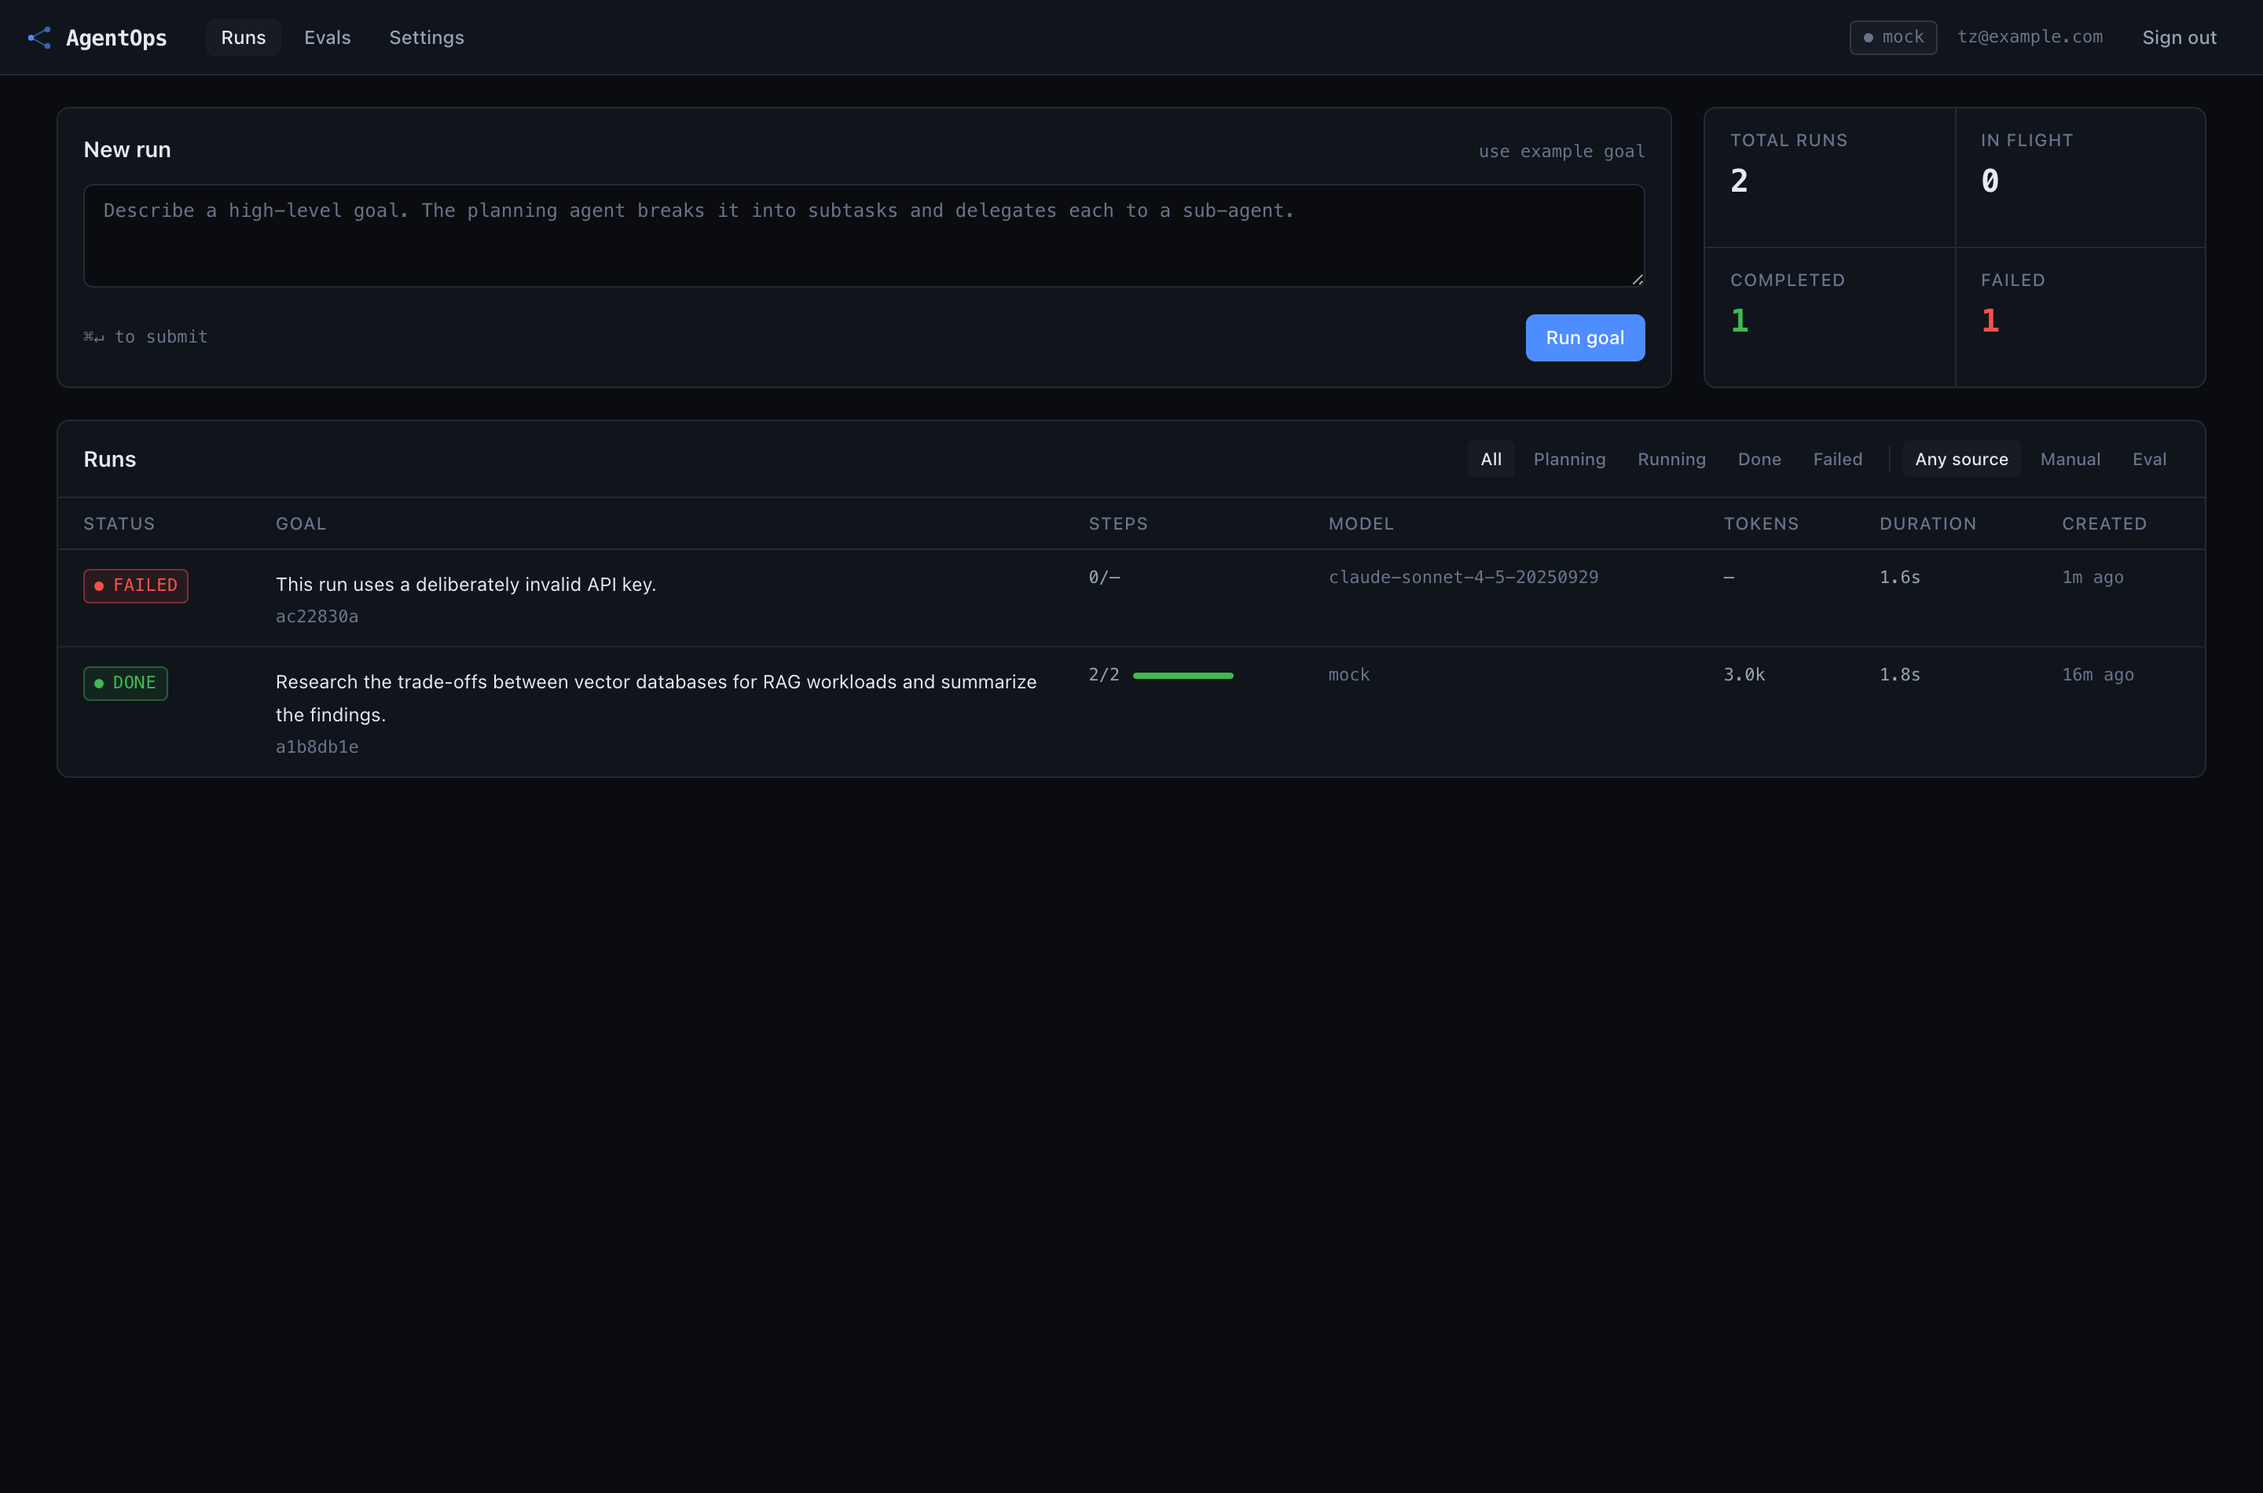
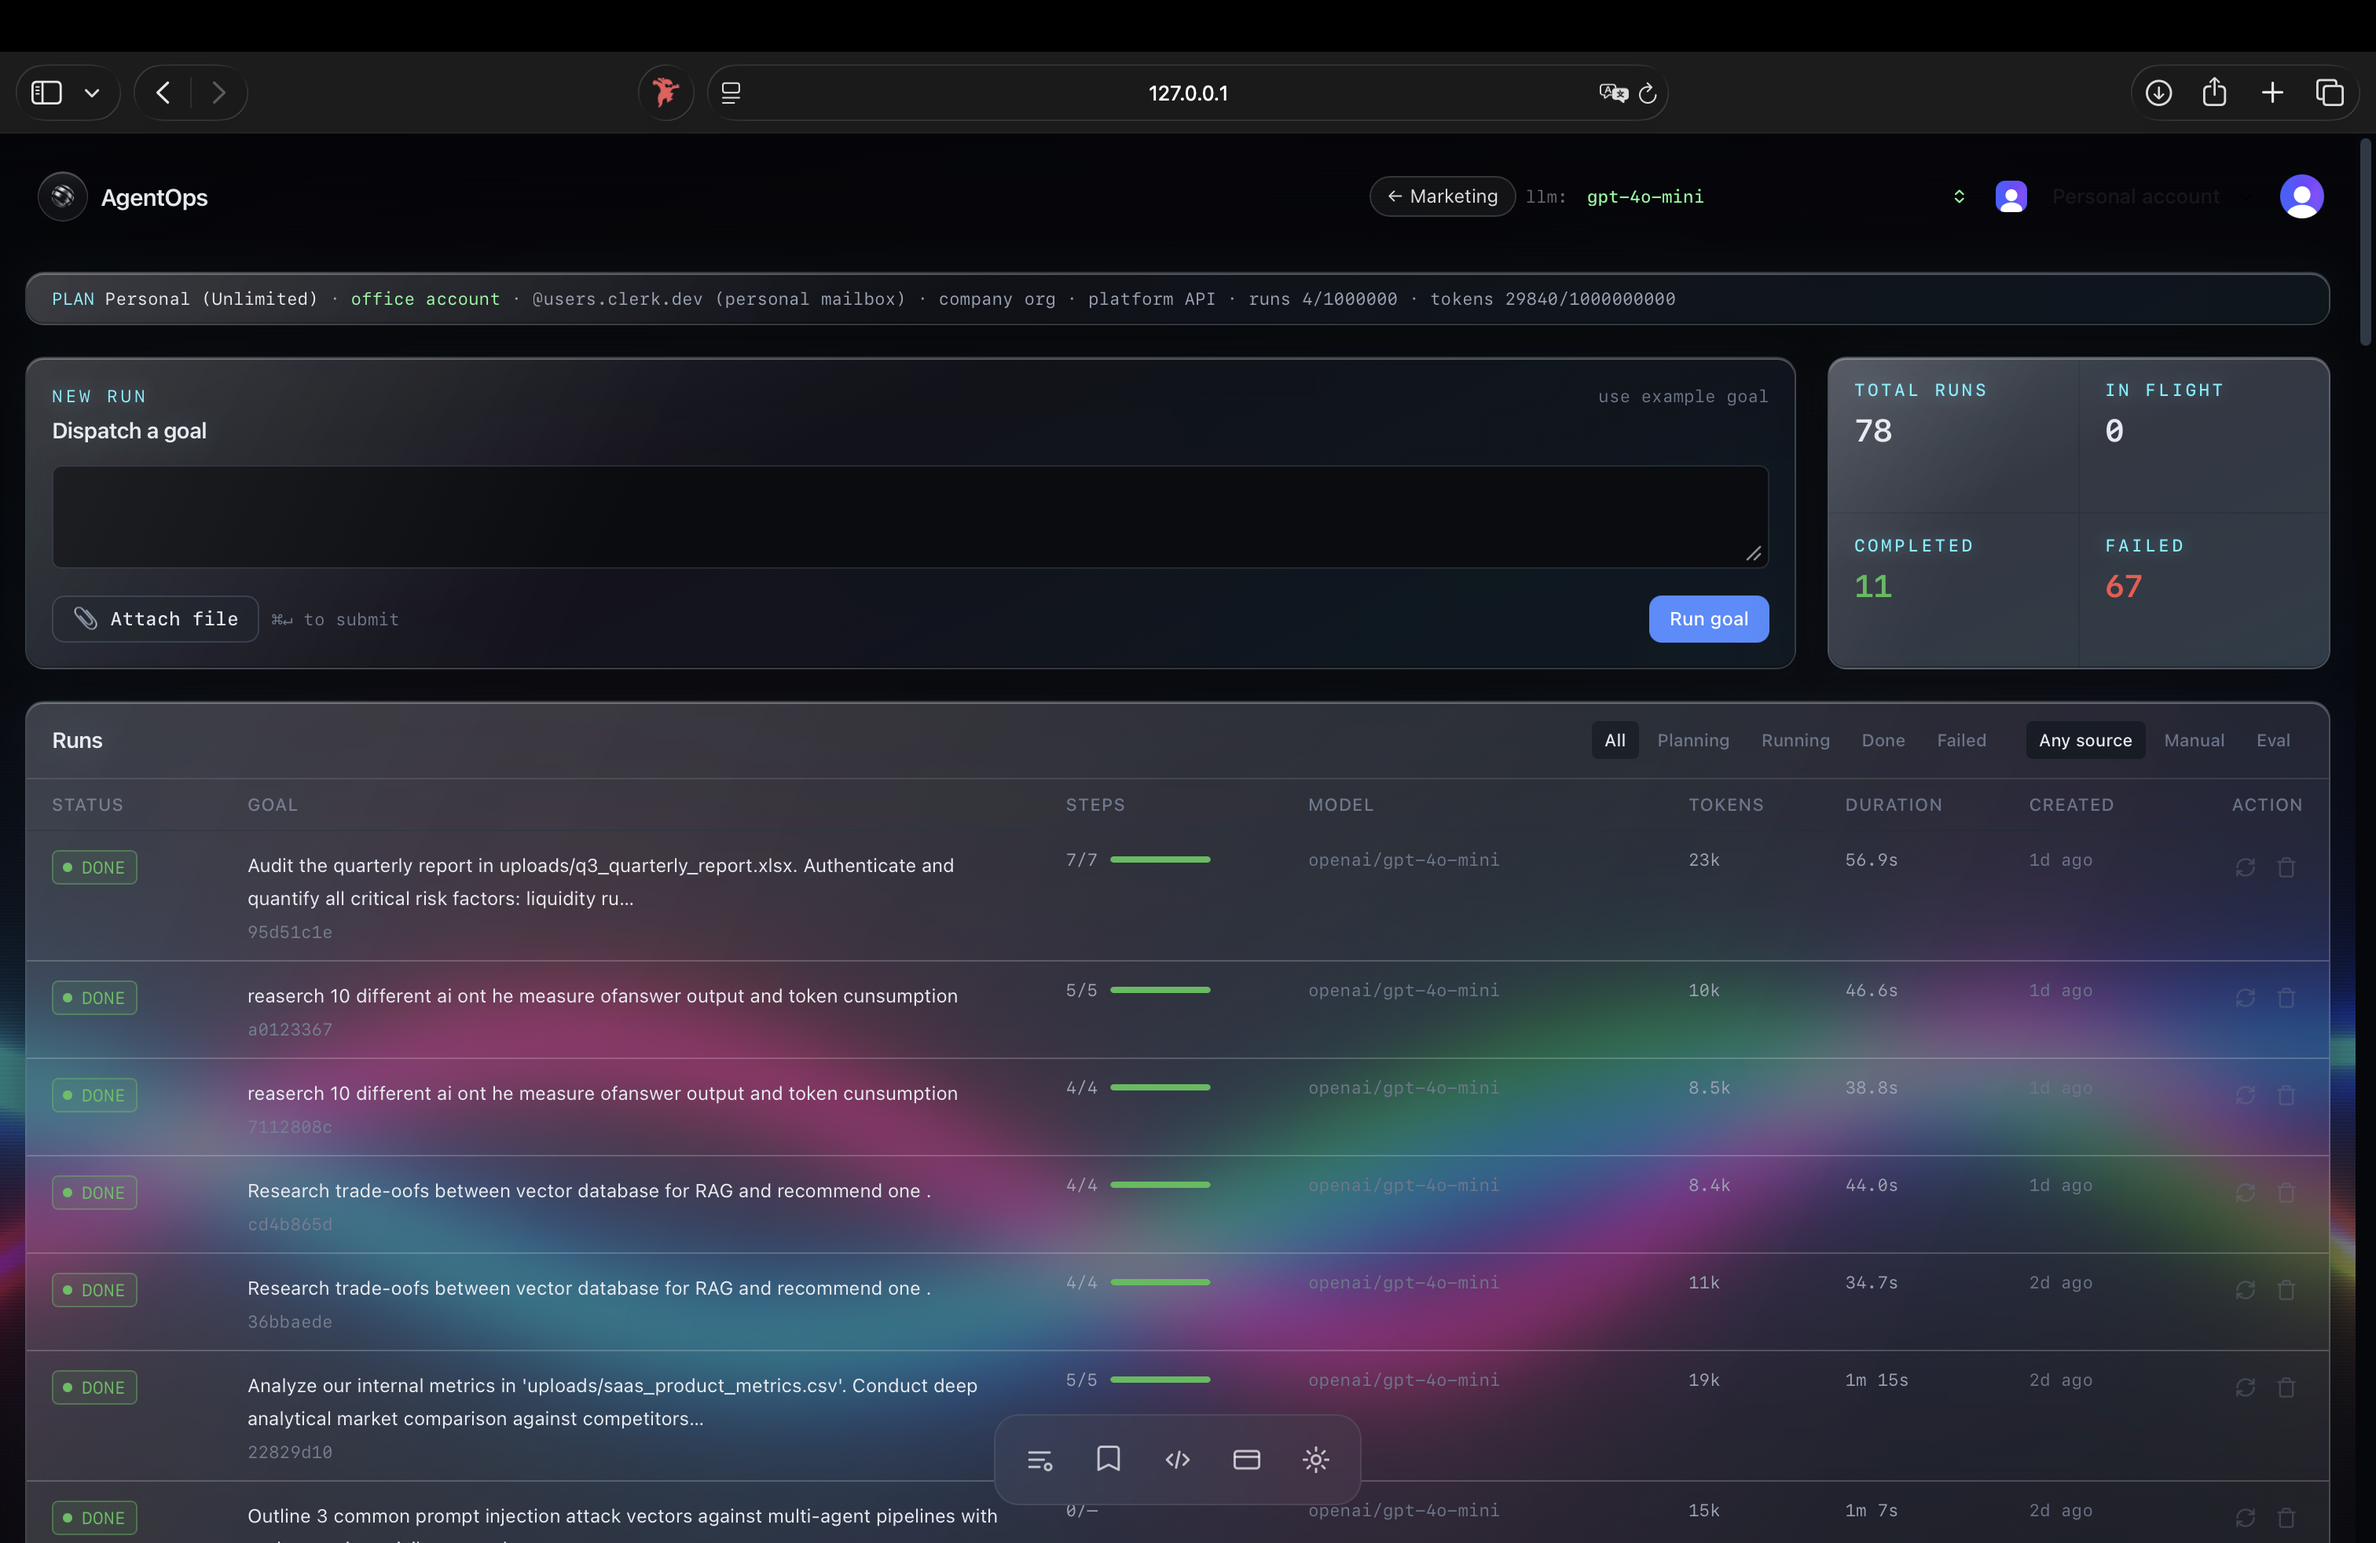
docs: update README with real app screenshots and visual tour

diff --git a/README.md b/README.md
@@ -24,13 +24,17 @@
 
 <div align="center">
 
-| **Interactive Goal Dispatch & File Attachment** | **Live Tool Execution & Step-by-Step Traces** |
+| **Interactive Goal Dispatch & Live Runs** | **Live Tool Execution & Step-by-Step Traces** |
 |:---:|:---:|
-| ![Dashboard](docs/screenshots/dashboard.png) | ![Run Detail](docs/screenshots/run-detail.png) |
+| ![Dashboard](docs/screenshots/dashboard.png) | ![Run Output & Traces](docs/screenshots/run-output.png) |
 
-| **LLM-as-a-Judge Evaluation Harness** | **Provider & Model Configuration** |
+| **LLM-as-a-Judge Evaluation Harness** | **Sub-Agent Roster & Tool Permissions** |
 |:---:|:---:|
 | ![Evals](docs/screenshots/evals.png) | ![Settings](docs/screenshots/settings.png) |
+
+| **API Keys & Model Selection** | **Personal Edition Usage & System Diagnostics** |
+|:---:|:---:|
+| ![API Keys](docs/screenshots/api-keys.png) | ![Usage](docs/screenshots/usage.png) |
 
 </div>
 
@@ -52,7 +56,7 @@
 - **📎 Drag-and-Drop File Analysis**: Upload internal product specs, financial reports, or PDFs, and ask AgentOps to conduct **deep analytical market research and competitor comparisons**.
 - **🧪 LLM-as-a-Judge Eval Harness**: Automated regression testing across scenarios (Prompt Injection Defense, Vector DB trade-offs, Latency bounds) with rubric-based scoring.
 - **🔌 Multi-Provider Flexibility**: Native out-of-the-box support for **OpenRouter, Groq, Anthropic Claude, OpenAI, and local Ollama/vLLM**.
-- **🏢 Enterprise SaaS Ready**: Clerk multi-tenant organization auth, Supabase Postgres/SQLite, Stripe subscription tiers, Upstash rate limiting, and Sentry/PostHog telemetry.
+- **🔓 100% Free & Unlimited Personal Edition**: Unrestricted runs and tokens, local AST-hardened sandbox execution, zero paywalls, multi-tenant Clerk auth optional, and single-command local setup with zero-config SQLite.
 
 ---
 
